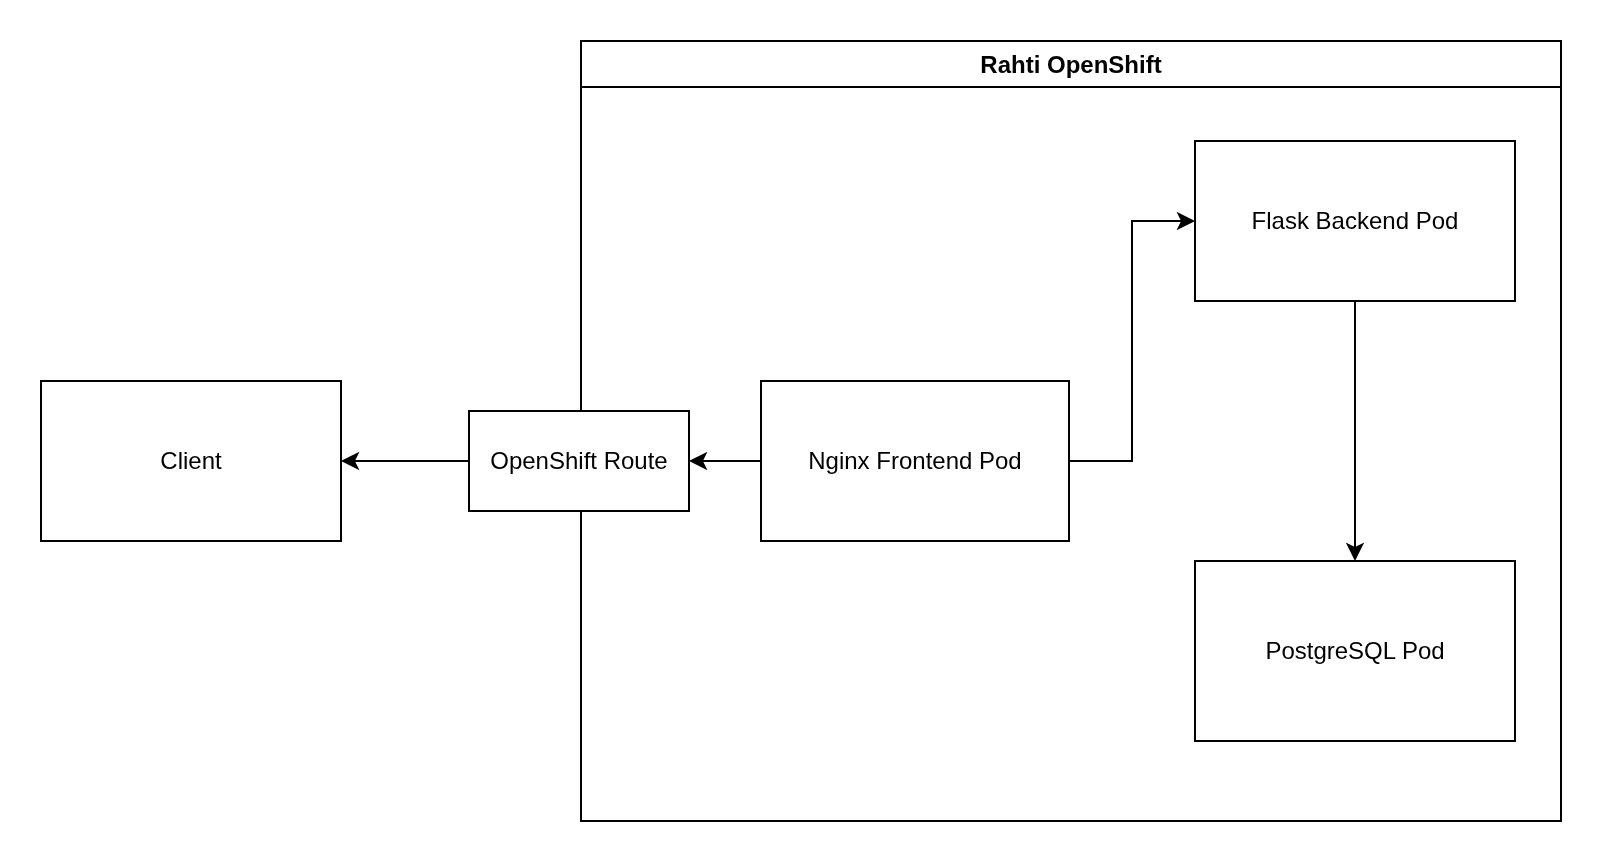
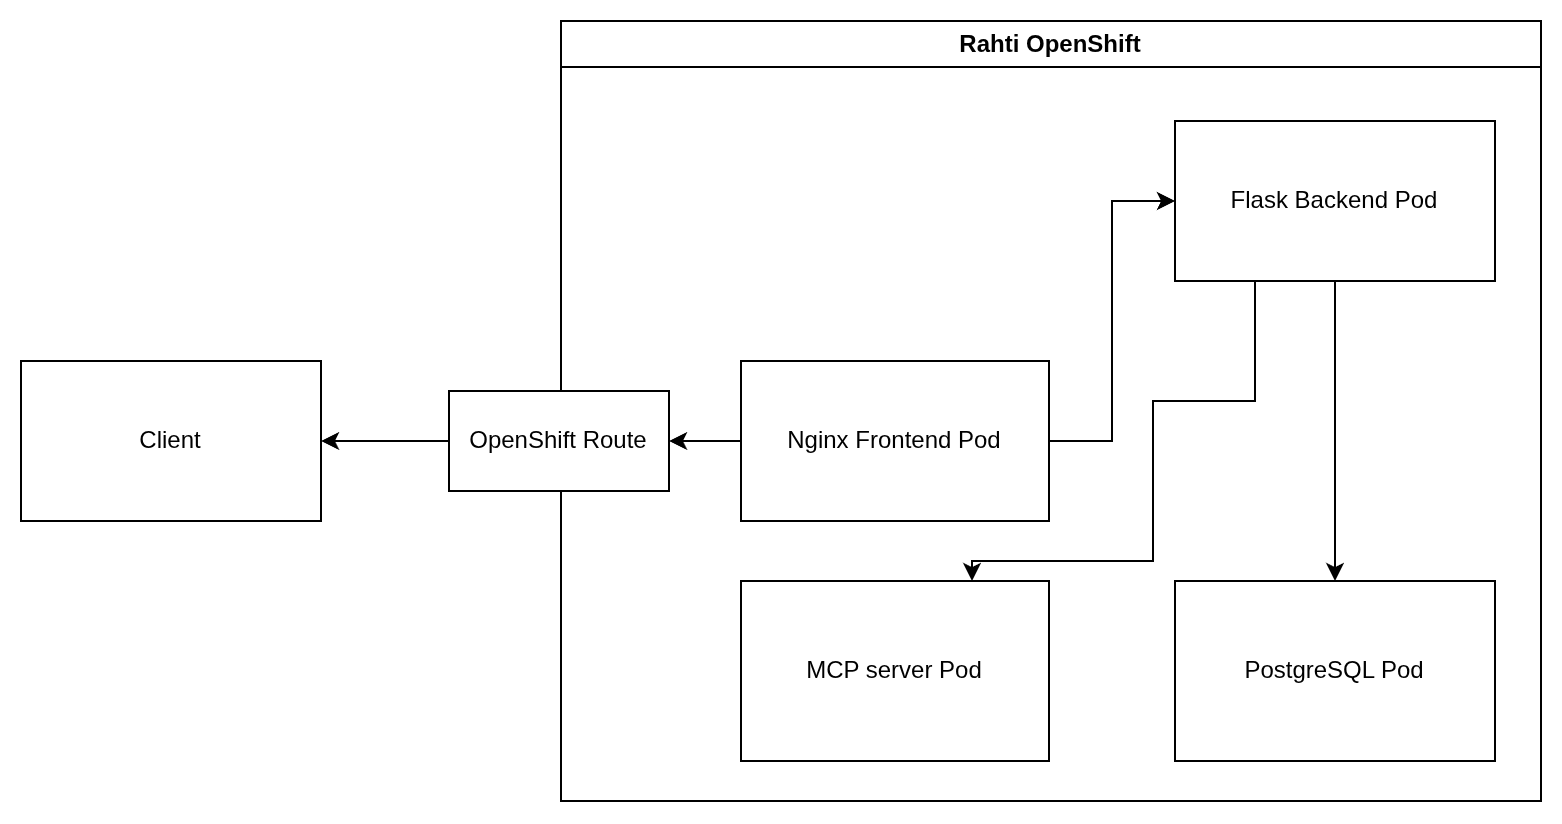
Update deployment diagram

diff --git a/docs/architecture.md b/docs/architecture.md
@@ -20,6 +20,9 @@ The Nginx Frontend Pod functions as a reverse proxy and a static file server for
 ### Flask Backend Pod
 The Flask Backend Pod contains all the backend logic of the project, implemented as a WSGI server using Gunicorn and Flask.
 
+### MCP Pod
+The MCP Pod runs an [MCP weather server](https://github.com/jensjvh/mcp_historical_weather_server/tree/main/src/mcp_historical_weather_server), which lets agents access data from the [Open-Meteo](https://open-meteo.com/) weather API.
+
 ### PostgreSQL Pod
 The PostgreSQL Pod is implemented with OKD's (or CSC's Rahti's) default PostgreSQL template with persistent storage.
 
